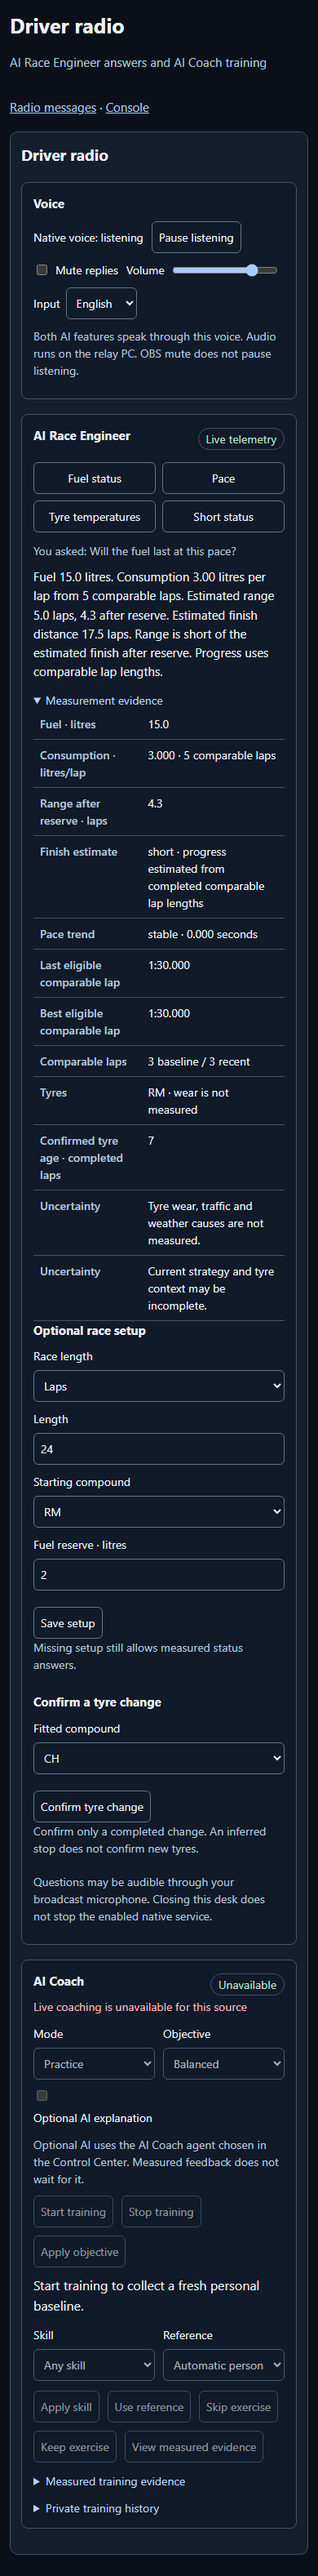
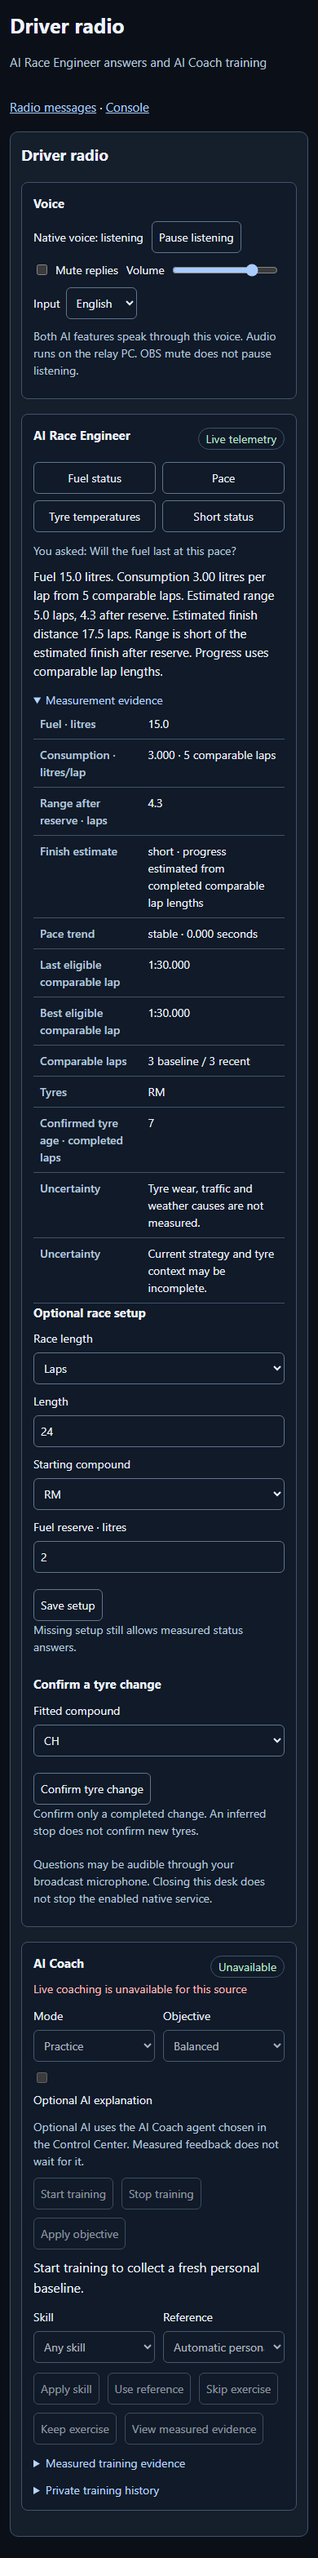
fix(radio): drop the tyre wear note from tyre answers (#1067)
GT7 telemetry never reports tyre wear, so saying so in every spoken tyre answer
and evidence table told the driver nothing.

diff --git a/src/console/driver-radio.js b/src/console/driver-radio.js
@@ -110,7 +110,7 @@ class View {
   this.q('attachment').textContent=latest?((latest.audio_state==='failed'?'Speech failed; text is retained. ':latest.audio_state==='unconfigured'?'English speech is not configured. ':'')+(latest.explanation?'Interpretation: '+latest.explanation:'')):'';
   if(this.compact)return;
   const facts=latest?.evidence||this.state.assessment||{};const fuel=facts.fuel||{},pace=facts.pace||{},tyres=facts.tyres||{};const table=this.q('evidence');table.replaceChildren();
-  for(const [label,value] of [['Fuel · litres',val(fuel.current_l)],['Consumption · litres/lap',val(fuel.consumption_l,3)+' · '+(fuel.samples||0)+' comparable laps'],['Range after reserve · laps',val(fuel.usable_laps)],['Finish estimate',(fuel.finish||'unknown').replaceAll('_',' ')+(fuel.finish_assumption?' · '+fuel.finish_assumption:'')],['Pace trend',(pace.state||'unavailable')+' · '+val(pace.delta_s,3)+' seconds'],['Last eligible comparable lap',lapTime(pace.last_s)],['Best eligible comparable lap',lapTime(pace.best_s)],['Comparable laps',(pace.baseline_ids?.length||0)+' baseline / '+(pace.recent_ids?.length||0)+' recent'],['Tyres',(tyres.compound||'Unknown compound')+' · wear is not measured'],['Confirmed tyre age · completed laps',val(tyres.age_laps,0)]]){const row=el('tr');row.append(el('th',label),el('td',value));table.append(row);}
+  for(const [label,value] of [['Fuel · litres',val(fuel.current_l)],['Consumption · litres/lap',val(fuel.consumption_l,3)+' · '+(fuel.samples||0)+' comparable laps'],['Range after reserve · laps',val(fuel.usable_laps)],['Finish estimate',(fuel.finish||'unknown').replaceAll('_',' ')+(fuel.finish_assumption?' · '+fuel.finish_assumption:'')],['Pace trend',(pace.state||'unavailable')+' · '+val(pace.delta_s,3)+' seconds'],['Last eligible comparable lap',lapTime(pace.last_s)],['Best eligible comparable lap',lapTime(pace.best_s)],['Comparable laps',(pace.baseline_ids?.length||0)+' baseline / '+(pace.recent_ids?.length||0)+' recent'],['Tyres',tyres.compound||'Unknown'],['Confirmed tyre age · completed laps',val(tyres.age_laps,0)]]){const row=el('tr');row.append(el('th',label),el('td',value));table.append(row);}
   for(const note of facts.uncertainties||[]){const row=el('tr');row.append(el('th','Uncertainty'),el('td',note));table.append(row);}
   if(!this.dirty){const setup=this.setup.setup||{};this.q('race-mode').value=setup.laps!==undefined?'laps':setup.duration_min!==undefined?'duration_min':'';this.q('race-length').value=setup.laps??setup.duration_min??'';this.q('compound').value=setup.starting_compound||'';this.q('reserve').value=setup.fuel_reserve_l??'';}
   this.q('setup-form').querySelector('button').disabled=!this.setup.binding;this.q('service-form').querySelector('button').disabled=!this.setup.binding;

diff --git a/src/scripts/driver_radio_assessment.py b/src/scripts/driver_radio_assessment.py
@@ -285,7 +285,7 @@ def assess(snapshot, session=None, limits=None):
                                  for label,value in zip(('front left','front right','rear left','rear right'),temps, strict=True))
     age = number(tyres['age_laps'])
     age_text = f' Confirmed tyre age {age:g} completed laps.' if age is not None and age >= 0 else ' Confirmed tyre age is unavailable.'
-    tyre_text = 'Tyre temperatures: '+temperature_text+'. Compound '+(compound or 'unknown')+'.'+age_text+' Wear is not measured.'
+    tyre_text = 'Tyre temperatures: '+temperature_text+'. Compound '+(compound or 'unknown')+'.'+age_text
     status_fuel = (f'Fuel {fuel:.1f} litres, usable range {usable:.1f} laps.' if fuel is not None and usable is not None
                    else f'Fuel {fuel:.1f} litres; range unavailable.' if fuel is not None else 'Live fuel is unavailable.')
     if fuel_result['state']=='provisional':status_fuel += ' Fuel estimate is provisional.'

diff --git a/tests/test_driver_radio_assessment.py b/tests/test_driver_radio_assessment.py
@@ -47,6 +47,10 @@ def t_pace_answer_gives_lap_times_as_minutes_seconds_millis():
     assert radio._lap_clock(59.9996)=='1:00.000.' and radio._lap_clock(58.1234)=='58.123 seconds.'
 
 
+def t_tyre_answer_skips_the_wear_note_telemetry_can_never_fill():
+    assert 'wear' not in review(snapshot())['answers']['tyres'].casefold()
+
+
 def t_fastest_lap_is_named_only_when_a_comparable_lap_beats_the_earlier_ones():
     fastest=review(snapshot((90,91,89)))
     assert 'Last lap was your fastest.' in fastest['answers']['status'] and ', your fastest lap.' in fastest['lap_text'],fastest['lap_text']
